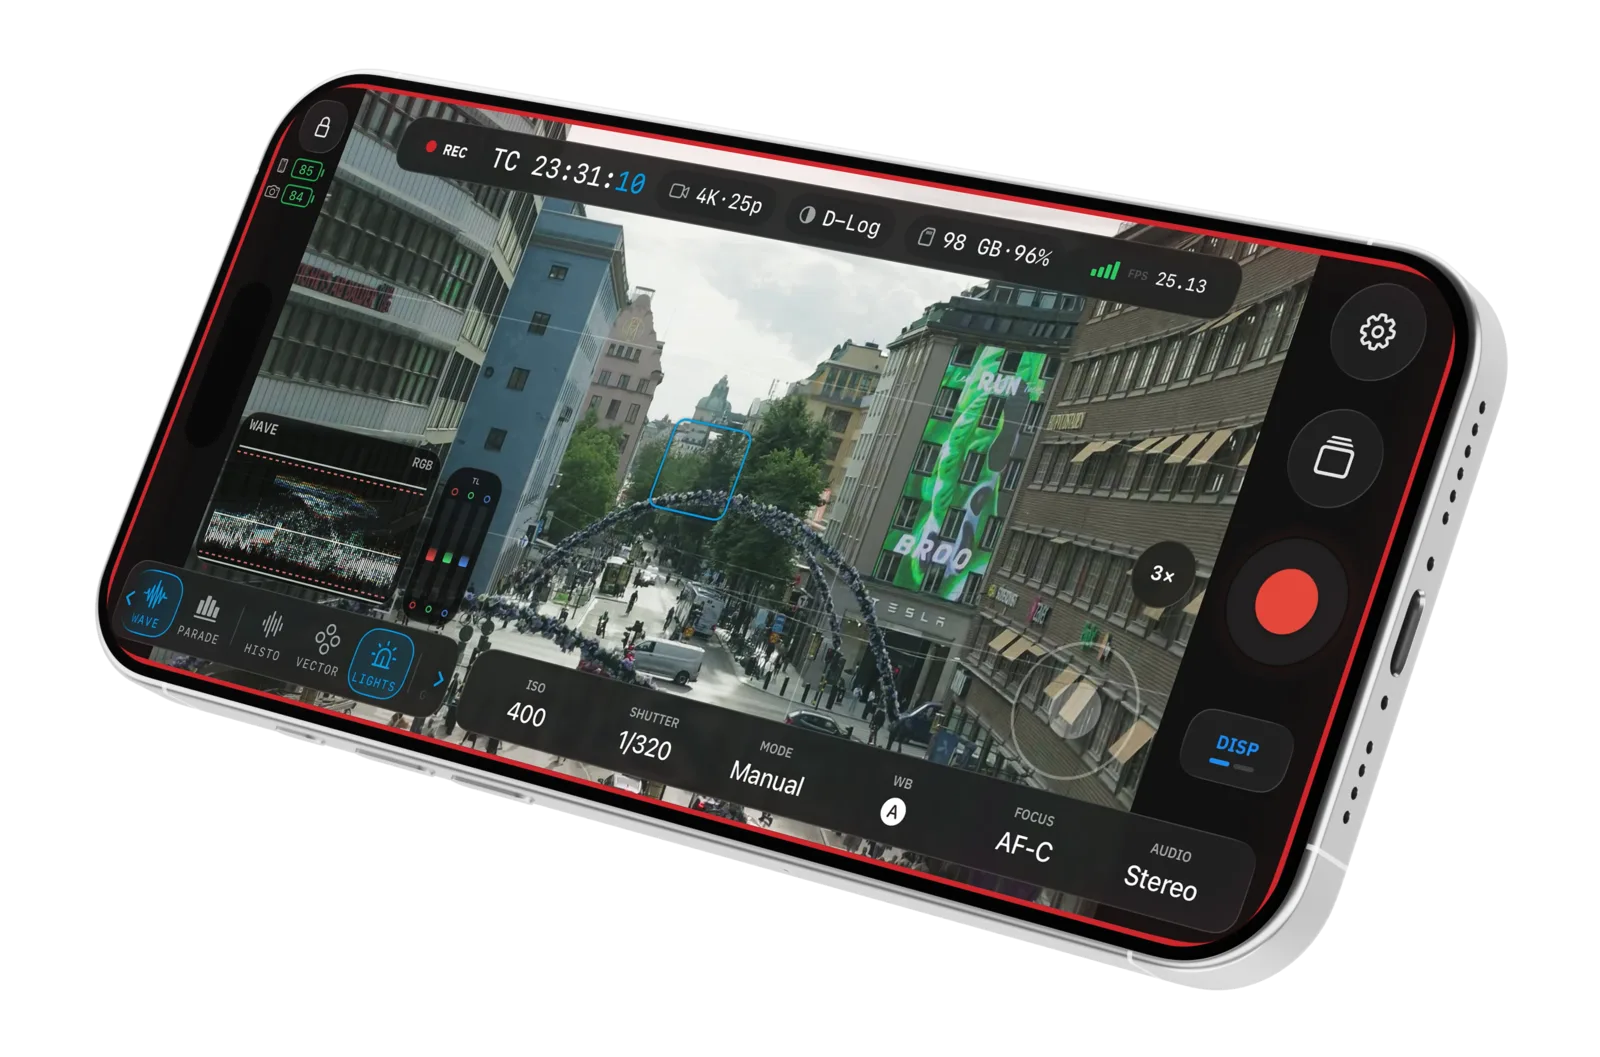
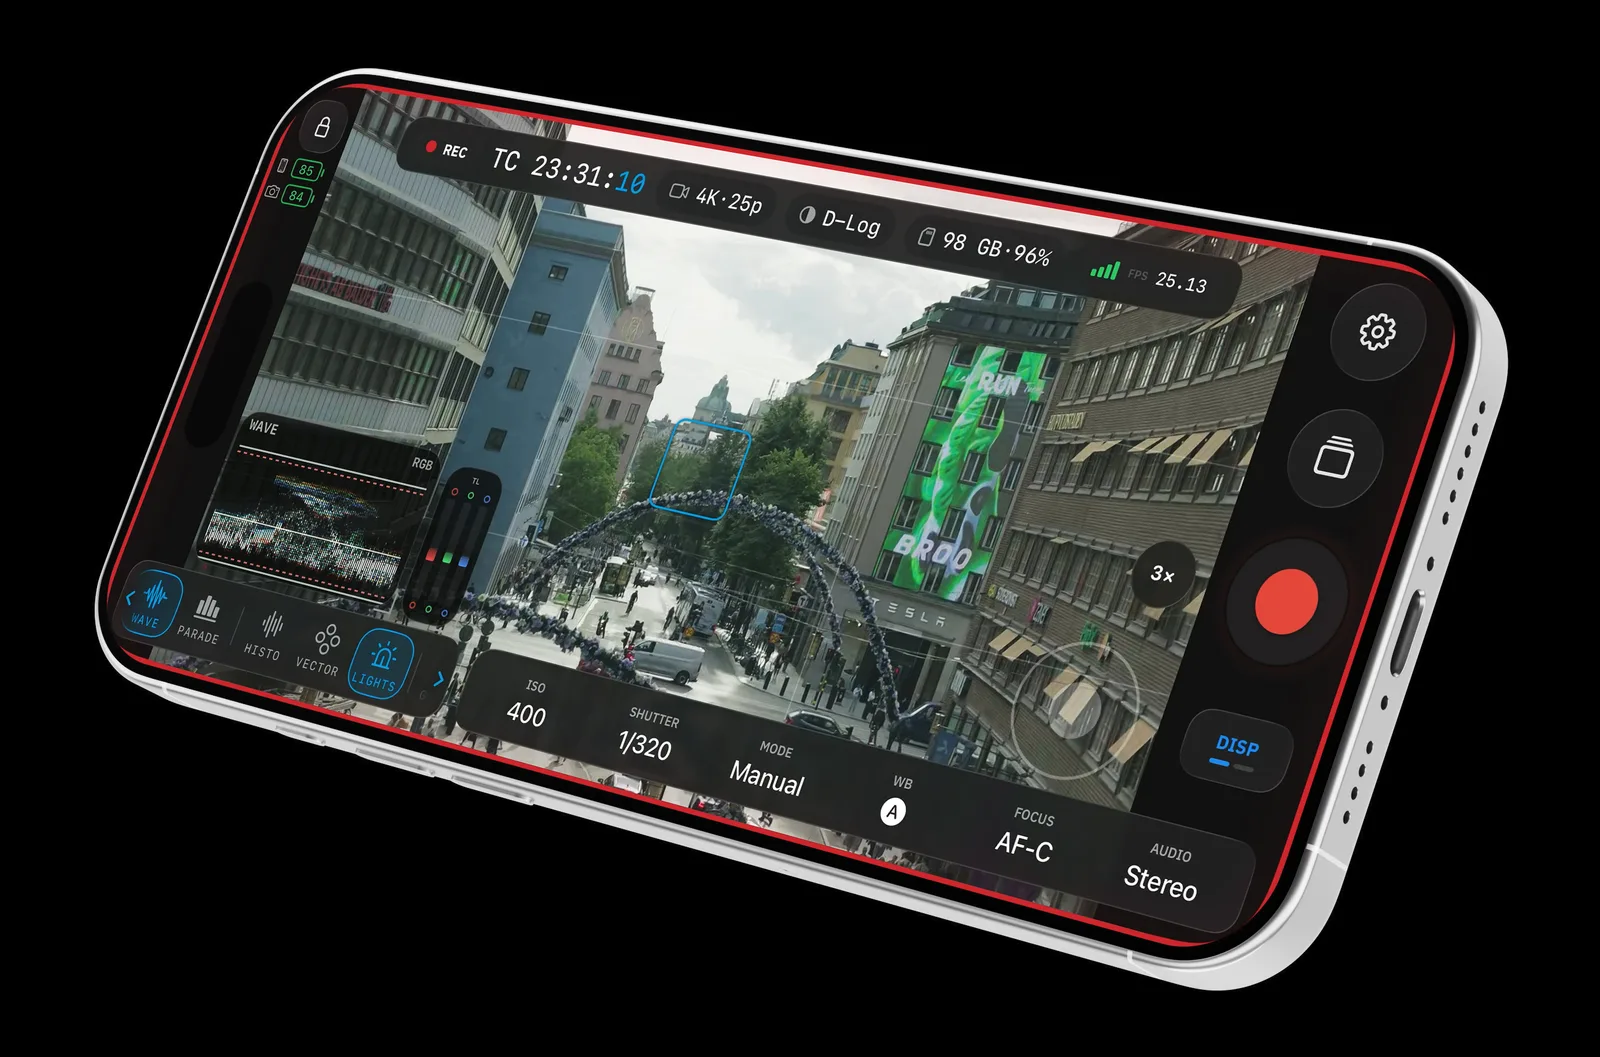
fix: flatten field mockups onto opaque black
The tight crops still had transparent pixels around the phones, so GitHub's
light README showed white boxes. Composite onto black and encode as RGB WebP.

diff --git a/site/assets/README.md b/site/assets/README.md
@@ -5,10 +5,12 @@ footage stay in gitignored `.local/`. App LUTs live under
 `ios/OpenPocketCine/Resources/`, not this tree.
 
 `screens/*.webp` are reviewed field-usage mockups for the README and landing
-page. Encode with:
+page. Flatten any transparency onto black first so GitHub's light page does
+not show through, then encode as opaque WebP:
 
 ```bash
-cwebp -q 82 -alpha_q 90 -resize 1600 0 input.png -o site/assets/screens/name.webp
+cwebp -q 82 -blend_alpha 000000 -resize 1600 0 input.png -o site/assets/screens/name.webp
 ```
 
+For a portrait source, resize the long edge to 1600 (`-resize 0 1600`).
 Names must be lowercase kebab-case. Each file must stay ≤ 1 MiB.
